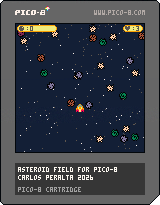
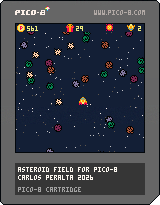
version jugable todas las mecanicas

diff --git a/pico8/index.js b/pico8/index.js
@@ -2,9 +2,9 @@ var _cartname=[`asteroidfield.p8`];
 var _cdpos=0; var iii=0; var ciii=0;
 var _cartdat=[
 0,0,0,0,0,144,9,0,0,238,238,0,0,238,224,0,0,238,238,0,0,238,238,0,0,14,224,0,0,0,0,0,0,0,0,0,0,0,0,0,0,0,0,0,0,0,0,0,0,0,0,0,0,0,0,0,0,0,0,0,0,0,0,0,0,0,0,0,0,201,156,0,0,222,222,14,224,51,62,14,224,68,78,14,224,34,46,14,238,239,254,14,0,0,0,0,0,0,0,0,0,0,0,0,0,0,0,0,0,0,0,0,0,0,0,0,0,0,0,0,0,0,0,0,0,0,0,0,0,7,112,0,144,156,201,9,238,222,221,237,62,51,227,227,78,78,78,228,46,46,34,226,224,255,239,0,0,0,0,0,0,0,0,0,0,0,0,0,0,0,0,0,0,0,0,0,0,0,0,0,0,0,0,0,0,0,0,0,0,0,0,0,0,112,7,0,144,154,169,9,222,221,237,237,62,227,227,227,78,228,228,228,46,34,226,226,254,239,255,14,0,0,0,0,0,0,0,0,0,0,0,0,0,0,0,0,0,0,0,0,0,0,0,0,0,0,0,0,0,0,0,0,0,0,0,0,
-0,112,7,0,153,154,169,153,238,221,221,14,224,227,62,238,238,68,68,238,238,34,34,226,224,255,255,239,0,0,0,0,0,0,0,0,0,0,0,0,0,0,0,0,0,0,0,0,0,0,0,0,0,0,0,0,0,0,0,0,0,0,0,0,0,7,112,0,137,169,154,152,238,237,221,238,62,62,51,14,78,228,228,14,46,226,34,226,254,254,254,14,0,0,0,0,0,0,0,0,0,0,0,0,0,0,0,0,0,0,0,0,0,0,0,0,0,0,0,0,0,0,0,0,0,0,0,0,0,0,0,0,136,168,138,136,0,222,237,14,224,227,238,14,224,68,78,228,224,34,226,14,224,238,239,224,0,0,0,0,0,0,0,0,0,0,0,0,0,0,0,0,0,0,0,0,0,0,0,0,0,0,0,0,0,0,0,0,0,0,0,0,0,0,0,0,8,168,138,128,0,224,14,0,0,14,224,0,0,238,224,14,0,238,238,0,14,0,14,0,0,0,0,0,0,0,0,0,0,0,0,0,0,0,0,0,0,0,0,0,0,0,0,0,0,0,0,0,0,0,0,0,0,0,0,0,
-0,0,0,0,0,0,0,0,0,0,0,0,0,0,0,0,0,0,0,0,0,0,0,0,0,0,0,0,0,0,0,0,0,0,0,0,0,0,0,0,0,0,0,0,0,0,0,0,0,0,0,0,0,0,0,0,0,0,0,0,0,0,0,0,0,0,0,0,0,0,0,0,0,0,0,0,0,0,0,0,0,0,0,0,0,0,0,0,0,0,0,0,0,0,0,0,0,0,0,0,0,0,0,0,0,0,0,0,0,0,0,0,0,0,0,0,0,0,0,0,0,0,0,0,0,0,0,0,0,0,0,0,0,0,0,0,0,0,0,0,0,0,0,0,0,0,0,0,0,0,0,0,0,0,0,0,0,0,0,0,0,0,0,0,0,0,0,0,0,0,0,0,0,0,0,0,0,0,0,0,0,0,0,0,0,0,0,0,0,0,0,0,0,0,0,0,0,0,0,0,0,0,0,0,0,0,0,0,0,0,0,0,0,0,0,0,0,0,0,0,0,0,0,0,0,0,0,0,0,0,0,0,0,0,0,0,0,0,0,0,0,0,0,0,0,0,0,0,0,0,0,0,0,0,0,0,
-0,0,0,0,0,0,0,0,0,0,0,0,0,0,0,0,0,0,0,0,0,0,0,0,0,0,0,0,0,0,0,0,0,0,0,0,0,0,0,0,0,0,0,0,0,0,0,0,0,0,0,0,0,0,0,0,0,0,0,0,0,0,0,0,0,0,0,0,0,0,0,0,0,0,0,0,0,0,0,0,0,0,0,0,0,0,0,0,0,0,0,0,0,0,0,0,0,0,0,0,0,0,0,0,0,0,0,0,0,0,0,0,0,0,0,0,0,0,0,0,0,0,0,0,0,0,0,0,0,0,0,0,0,0,0,0,0,0,0,0,0,0,0,0,0,0,0,0,0,0,0,0,0,0,0,0,0,0,0,0,0,0,0,0,0,0,0,0,0,0,0,0,0,0,0,0,0,0,0,0,0,0,0,0,0,0,0,0,0,0,0,0,0,0,0,0,0,0,0,0,0,0,0,0,0,0,0,0,0,0,0,0,0,0,0,0,0,0,0,0,0,0,0,0,0,0,0,0,0,0,0,0,0,0,0,0,0,0,0,0,0,0,0,0,0,0,0,0,0,0,0,0,0,0,0,0,
+0,112,7,0,153,154,169,153,238,221,221,14,224,227,62,238,238,68,68,238,238,34,34,226,224,255,255,239,0,0,0,0,0,0,0,0,0,0,0,0,0,0,0,0,0,0,0,0,0,0,0,0,0,0,0,0,0,0,0,0,0,0,0,0,0,7,112,0,137,169,154,152,238,237,221,238,62,62,51,14,78,228,228,14,46,226,34,226,254,254,254,14,0,0,0,0,0,0,0,0,0,0,0,0,0,0,0,0,0,0,0,0,0,0,0,0,0,0,0,0,0,0,0,0,0,0,0,0,0,0,0,0,136,168,138,136,0,222,237,14,224,227,238,14,224,68,78,228,224,34,226,14,224,238,239,224,0,0,0,0,0,0,0,0,0,0,0,0,0,0,0,0,0,0,0,0,0,0,0,0,0,0,0,0,0,0,0,0,0,0,0,0,0,0,0,0,8,8,128,128,0,224,14,0,0,14,224,0,0,238,224,14,0,238,238,0,14,0,14,0,0,0,0,0,0,0,0,0,0,0,0,0,0,0,0,0,0,0,0,0,0,0,0,0,0,0,0,0,0,0,0,0,0,0,0,0,
+0,153,153,0,0,153,153,0,0,0,0,0,8,136,8,8,0,0,0,0,0,0,0,0,0,0,0,0,0,0,0,0,0,0,0,0,0,0,0,0,0,0,0,0,0,0,0,0,0,0,0,0,0,0,0,0,0,0,0,0,0,0,0,0,144,170,170,9,144,144,9,9,0,144,9,0,128,153,137,0,0,0,0,0,0,0,0,0,0,0,0,0,0,0,0,0,0,0,0,0,0,0,0,0,0,0,0,0,0,0,0,0,0,0,0,0,0,0,0,0,0,0,0,0,0,0,0,0,169,138,168,154,136,153,153,136,0,201,156,0,152,154,154,8,0,0,0,0,0,0,0,0,0,0,0,0,0,0,0,0,0,0,0,0,0,0,0,0,0,0,0,0,0,0,0,0,0,0,0,0,0,0,0,0,0,0,0,0,0,0,0,0,169,138,138,154,152,152,137,137,144,156,201,9,152,169,153,8,85,80,5,85,0,0,0,0,0,0,0,0,0,0,0,0,0,0,0,0,0,0,0,0,0,0,0,0,0,0,0,0,0,0,0,0,0,0,0,0,0,0,0,0,0,0,0,0,
+169,138,168,154,128,152,137,8,144,154,169,9,152,154,154,8,0,0,0,0,0,0,0,0,0,0,0,0,0,0,0,0,0,0,0,0,0,0,0,0,0,0,0,0,0,0,0,0,0,0,0,0,0,0,0,0,0,0,0,0,0,0,0,0,169,138,170,154,128,152,137,8,153,154,169,153,128,153,137,0,0,0,0,0,0,0,0,0,0,0,0,0,0,0,0,0,0,0,0,0,0,0,0,0,0,0,0,0,0,0,0,0,0,0,0,0,0,0,0,0,0,0,0,0,0,0,0,0,144,170,170,9,128,152,137,8,9,169,154,144,8,136,8,8,0,0,0,0,0,0,0,0,0,0,0,0,0,0,0,0,0,0,0,0,0,0,0,0,0,0,0,0,0,0,0,0,0,0,0,0,0,0,0,0,0,0,0,0,0,0,0,0,0,153,153,0,128,152,137,8,0,160,10,0,0,0,0,0,0,0,0,0,0,0,0,0,0,0,0,0,0,0,0,0,0,0,0,0,0,0,0,0,0,0,0,0,0,0,0,0,0,0,0,0,0,0,0,0,0,0,0,0,0,0,0,0,
 0,0,0,0,0,0,0,0,0,0,0,0,0,0,0,0,0,0,0,0,0,0,0,0,0,0,0,0,0,0,0,0,0,0,0,0,0,0,0,0,0,0,0,0,0,0,0,0,0,0,0,0,0,0,0,0,0,0,0,0,0,0,0,0,0,0,0,0,0,0,0,0,0,0,0,0,0,0,0,0,0,0,0,0,0,0,0,0,0,0,0,0,0,0,0,0,0,0,0,0,0,0,0,0,0,0,0,0,0,0,0,0,0,0,0,0,0,0,0,0,0,0,0,0,0,0,0,0,0,0,0,0,0,0,0,0,0,0,0,0,0,0,0,0,0,0,0,0,0,0,0,0,0,0,0,0,0,0,0,0,0,0,0,0,0,0,0,0,0,0,0,0,0,0,0,0,0,0,0,0,0,0,0,0,0,0,0,0,0,0,0,0,0,0,0,0,0,0,0,0,0,0,0,0,0,0,0,0,0,0,0,0,0,0,0,0,0,0,0,0,0,0,0,0,0,0,0,0,0,0,0,0,0,0,0,0,0,0,0,0,0,0,0,0,0,0,0,0,0,0,0,0,0,0,0,0,
 0,0,0,0,0,0,0,0,0,0,0,0,0,0,0,0,0,0,0,0,0,0,0,0,0,0,0,0,0,0,0,0,0,0,0,0,0,0,0,0,0,0,0,0,0,0,0,0,0,0,0,0,0,0,0,0,0,0,0,0,0,0,0,0,0,0,0,0,0,0,0,0,0,0,0,0,0,0,0,0,0,0,0,0,0,0,0,0,0,0,0,0,0,0,0,0,0,0,0,0,0,0,0,0,0,0,0,0,0,0,0,0,0,0,0,0,0,0,0,0,0,0,0,0,0,0,0,0,0,0,0,0,0,0,0,0,0,0,0,0,0,0,0,0,0,0,0,0,0,0,0,0,0,0,0,0,0,0,0,0,0,0,0,0,0,0,0,0,0,0,0,0,0,0,0,0,0,0,0,0,0,0,0,0,0,0,0,0,0,0,0,0,0,0,0,0,0,0,0,0,0,0,0,0,0,0,0,0,0,0,0,0,0,0,0,0,0,0,0,0,0,0,0,0,0,0,0,0,0,0,0,0,0,0,0,0,0,0,0,0,0,0,0,0,0,0,0,0,0,0,0,0,0,0,0,0,
 0,0,0,0,0,0,0,0,0,0,0,0,0,0,0,0,0,0,0,0,0,0,0,0,0,0,0,0,0,0,0,0,0,0,0,0,0,0,0,0,0,0,0,0,0,0,0,0,0,0,0,0,0,0,0,0,0,0,0,0,0,0,0,0,0,0,0,0,0,0,0,0,0,0,0,0,0,0,0,0,0,0,0,0,0,0,0,0,0,0,0,0,0,0,0,0,0,0,0,0,0,0,0,0,0,0,0,0,0,0,0,0,0,0,0,0,0,0,0,0,0,0,0,0,0,0,0,0,0,0,0,0,0,0,0,0,0,0,0,0,0,0,0,0,0,0,0,0,0,0,0,0,0,0,0,0,0,0,0,0,0,0,0,0,0,0,0,0,0,0,0,0,0,0,0,0,0,0,0,0,0,0,0,0,0,0,0,0,0,0,0,0,0,0,0,0,0,0,0,0,0,0,0,0,0,0,0,0,0,0,0,0,0,0,0,0,0,0,0,0,0,0,0,0,0,0,0,0,0,0,0,0,0,0,0,0,0,0,0,0,0,0,0,0,0,0,0,0,0,0,0,0,0,0,0,0,
@@ -67,18 +67,18 @@ var _cartdat=[
 0,16,0,0,0,0,0,0,0,0,0,0,0,0,0,0,0,0,0,0,0,0,0,0,0,0,0,0,0,0,0,0,0,0,0,0,0,0,0,0,0,0,0,0,0,0,0,0,0,0,0,0,0,0,0,0,0,0,0,0,0,0,0,0,0,0,0,0,0,16,0,0,0,0,0,0,0,0,0,0,0,0,0,0,0,0,0,0,0,0,0,0,0,0,0,0,0,0,0,0,0,0,0,0,0,0,0,0,0,0,0,0,0,0,0,0,0,0,0,0,0,0,0,0,0,0,0,0,0,0,0,0,0,0,0,0,0,16,0,0,0,0,0,0,0,0,0,0,0,0,0,0,0,0,0,0,0,0,0,0,0,0,0,0,0,0,0,0,0,0,0,0,0,0,0,0,0,0,0,0,0,0,0,0,0,0,0,0,0,0,0,0,0,0,0,0,0,0,0,0,0,0,0,0,0,16,0,0,0,0,0,0,0,0,0,0,0,0,0,0,0,0,0,0,0,0,0,0,0,0,0,0,0,0,0,0,0,0,0,0,0,0,0,0,0,0,0,0,0,0,0,0,0,0,0,0,
 0,0,0,0,0,0,0,0,0,0,0,0,0,0,0,0,0,16,0,0,0,0,0,0,0,0,0,0,0,0,0,0,0,0,0,0,0,0,0,0,0,0,0,0,0,0,0,0,0,0,0,0,0,0,0,0,0,0,0,0,0,0,0,0,0,0,0,0,0,0,0,0,0,0,0,0,0,0,0,0,0,0,0,0,0,16,0,0,0,0,0,0,0,0,0,0,0,0,0,0,0,0,0,0,0,0,0,0,0,0,0,0,0,0,0,0,0,0,0,0,0,0,0,0,0,0,0,0,0,0,0,0,0,0,0,0,0,0,0,0,0,0,0,0,0,0,0,0,0,0,0,0,0,16,0,0,0,0,0,0,0,0,0,0,0,0,0,0,0,0,0,0,0,0,0,0,0,0,0,0,0,0,0,0,0,0,0,0,0,0,0,0,0,0,0,0,0,0,0,0,0,0,0,0,0,0,0,0,0,0,0,0,0,0,0,0,0,0,0,0,0,16,0,0,0,0,0,0,0,0,0,0,0,0,0,0,0,0,0,0,0,0,0,0,0,0,0,0,0,0,0,0,0,0,0,0,
 0,0,0,0,0,0,0,0,0,0,0,0,0,0,0,0,0,0,0,0,0,0,0,0,0,0,0,0,0,0,0,0,0,16,0,0,0,0,0,0,0,0,0,0,0,0,0,0,0,0,0,0,0,0,0,0,0,0,0,0,0,0,0,0,0,0,0,0,0,0,0,0,0,0,0,0,0,0,0,0,0,0,0,0,0,0,0,0,0,0,0,0,0,0,0,0,0,0,0,0,0,16,0,0,0,0,0,0,0,0,0,0,0,0,0,0,0,0,0,0,0,0,0,0,0,0,0,0,0,0,0,0,0,0,0,0,0,0,0,0,0,0,0,0,0,0,0,0,0,0,0,0,0,0,0,0,0,0,0,0,0,0,0,0,0,0,0,0,0,16,0,0,0,0,0,0,0,0,0,0,0,0,0,0,0,0,0,0,0,0,0,0,0,0,0,0,0,0,0,0,0,0,0,0,0,0,0,0,0,0,0,0,0,0,0,0,0,0,0,0,0,0,0,0,0,0,0,0,0,0,0,0,0,0,0,0,0,16,0,0,0,0,0,0,0,0,0,0,0,0,0,0,0,0,0,0,
-0,0,0,0,0,0,0,0,0,0,0,0,0,0,0,0,0,0,0,0,0,0,0,0,0,0,0,0,0,0,0,0,0,0,0,0,0,0,0,0,0,0,0,0,0,0,0,0,0,16,0,0,0,0,0,0,0,0,0,0,0,0,0,0,0,0,0,0,0,0,0,0,0,0,0,0,0,0,0,0,0,0,0,0,0,0,0,0,0,0,0,0,0,0,0,0,0,0,0,0,0,0,0,0,0,0,0,0,0,0,0,0,0,0,0,0,0,16,0,0,18,11,4,11,1,11,2,11,4,11,13,11,0,0,0,0,0,0,0,0,0,0,0,0,0,0,0,0,0,0,0,0,0,0,0,0,0,0,0,0,0,0,0,0,0,0,0,0,0,0,0,0,0,0,0,0,0,0,0,0,0,0,0,0,120,2,0,0,167,10,176,10,182,10,185,10,176,10,164,10,0,0,0,0,0,0,0,0,0,0,0,0,0,0,0,0,0,0,0,0,0,0,0,0,0,0,0,0,0,0,0,0,0,0,0,0,0,0,0,0,0,0,0,0,0,0,0,0,0,0,0,0,199,2,0,0,
-0,112,120,97,23,90,9,140,235,193,226,197,111,240,8,119,63,194,19,92,127,122,120,123,147,61,128,11,178,46,123,131,236,250,170,62,106,201,28,81,95,166,93,223,182,113,214,117,125,146,221,115,78,113,83,237,155,203,12,254,79,55,228,224,99,79,44,194,155,138,131,15,189,243,226,228,206,115,211,36,235,238,189,179,105,11,233,240,255,61,238,184,108,100,39,24,58,127,41,138,170,173,65,113,130,39,168,162,205,50,25,28,76,195,178,104,222,160,139,116,73,230,194,32,171,158,225,25,202,70,152,224,9,170,166,136,235,34,124,137,98,180,26,200,23,236,115,229,136,94,64,221,181,237,68,167,29,50,59,208,117,42,6,7,142,172,132,97,125,161,174,201,153,249,196,66,157,117,113,98,143,145,236,21,178,37,169,144,213,37,29,129,1,251,44,215,210,227,154,90,232,19,223,29,234,139,60,47,54,2,33,2,231,212,51,249,196,208,80,231,173,113,221,130,141,112,65,82,112,165,235,139,165,5,171,149,47,145,53,59,107,114,42,151,4,193,80,167,75,16,150,89,211,36,73,171,
+0,0,0,0,0,0,0,0,0,0,0,0,0,0,0,0,0,0,0,0,0,0,0,0,0,0,0,0,0,0,0,0,0,0,0,0,0,0,0,0,0,0,0,0,0,0,0,0,0,16,0,0,10,10,8,10,5,10,3,10,2,10,2,10,3,10,5,10,9,10,12,10,17,10,25,10,36,10,47,10,58,10,0,0,0,0,0,0,0,0,0,0,0,0,0,0,0,0,0,0,0,0,0,0,0,0,0,0,0,0,0,0,0,0,0,0,49,2,0,0,18,11,4,11,1,11,2,11,4,11,13,11,0,0,0,0,0,0,0,0,0,0,0,0,0,0,0,0,0,0,0,0,0,0,0,0,0,0,0,0,0,0,0,0,0,0,0,0,0,0,0,0,0,0,0,0,0,0,0,0,0,0,0,0,120,2,0,0,149,3,163,5,184,7,184,9,184,11,144,11,144,11,183,11,183,11,183,11,144,11,144,11,148,11,152,11,159,9,165,7,168,5,168,3,192,1,0,0,0,0,0,0,0,0,0,0,0,0,0,0,0,0,0,0,0,0,0,0,0,0,0,0,209,2,0,0,
+0,112,120,97,25,240,10,133,235,193,226,197,111,240,8,119,63,194,19,92,127,122,120,123,147,61,128,11,178,46,123,131,236,250,170,62,106,201,28,81,95,166,93,223,182,113,214,117,125,146,221,115,78,113,83,237,155,203,12,254,79,55,228,224,99,79,44,194,155,138,131,15,189,243,226,228,206,115,211,36,235,238,189,179,105,11,233,240,255,61,238,184,108,100,39,24,58,127,41,138,170,173,65,113,130,39,168,162,205,50,25,28,76,195,178,104,222,160,139,116,73,230,194,32,171,158,225,25,202,70,152,224,9,170,166,136,235,34,124,137,98,180,26,200,23,236,115,229,136,94,64,221,181,237,68,167,29,50,59,208,117,42,6,7,142,172,132,97,125,161,174,201,153,249,196,66,157,117,113,98,143,145,236,21,178,37,169,144,213,37,29,129,1,251,44,215,210,227,154,90,232,19,223,29,234,139,60,47,54,2,33,2,231,212,51,249,196,208,80,231,173,113,221,130,141,112,65,82,112,165,235,139,165,5,171,149,47,145,53,59,107,114,42,151,4,193,80,167,75,16,150,89,211,36,73,171,
 80,146,236,9,170,255,215,250,190,65,155,60,92,44,163,149,168,74,163,161,62,216,105,140,217,30,48,210,46,141,136,146,60,66,31,21,205,228,100,57,19,230,43,54,9,146,177,166,156,232,15,40,222,162,104,162,188,58,161,58,85,66,96,45,26,30,27,204,94,99,98,66,251,97,102,99,105,43,152,140,138,100,107,109,108,103,76,40,100,96,99,161,56,214,220,83,67,89,219,219,198,20,217,116,49,93,44,91,67,184,32,92,80,100,48,86,20,57,36,114,192,174,53,22,250,120,195,86,117,186,144,167,59,229,70,58,144,217,66,178,164,215,59,72,19,111,108,233,22,4,225,11,21,117,93,249,38,142,86,204,176,57,55,154,76,52,141,64,193,144,53,146,240,49,194,133,102,183,72,214,214,244,10,54,148,155,148,67,146,196,25,73,63,90,204,149,139,226,98,26,7,229,76,231,26,89,148,217,89,173,113,183,85,95,54,2,233,25,219,105,156,33,145,226,52,85,146,120,202,47,43,99,189,76,185,116,74,242,167,136,227,120,66,130,124,94,232,253,60,229,42,185,5,89,114,57,
-43,60,122,35,81,46,199,92,56,208,8,162,4,91,11,170,165,114,35,229,120,223,53,239,52,19,232,140,202,164,115,206,49,226,230,238,229,76,130,129,98,65,87,65,176,252,104,4,75,103,110,222,19,69,152,238,231,4,81,252,160,234,179,33,153,49,81,204,5,189,226,71,30,141,116,182,200,187,86,35,208,11,242,7,197,254,188,110,137,104,92,33,20,33,76,28,101,3,194,65,75,101,151,250,73,88,66,74,165,149,121,113,148,46,145,139,180,205,6,135,162,185,177,193,42,73,147,199,16,14,155,145,57,199,198,224,138,168,196,254,158,194,217,226,252,192,242,236,134,149,68,5,85,163,86,92,38,48,172,151,34,28,118,246,204,94,36,213,62,93,24,69,36,27,44,45,173,21,123,146,21,71,11,40,202,172,88,242,226,48,220,214,117,42,53,61,86,151,231,38,68,66,181,203,36,83,116,234,49,81,201,172,255,89,208,133,149,112,151,116,187,101,103,164,231,91,15,14,78,107,243,199,46,234,147,46,114,198,216,104,58,56,44,217,36,70,255,171,11,146,197,102,107,79,200,33,
-14,182,198,70,146,11,162,100,93,66,35,74,118,146,13,251,90,223,87,59,71,203,99,40,158,57,24,248,194,59,185,53,222,104,110,232,119,164,237,1,173,46,157,228,62,246,69,240,33,60,158,58,202,229,6,250,66,114,32,113,128,60,179,54,63,86,229,174,132,237,33,62,250,60,202,94,10,6,163,75,123,23,175,45,12,172,7,42,249,72,227,27,146,170,142,154,70,200,76,208,89,184,84,143,70,133,75,55,252,88,210,13,155,16,162,175,76,254,127,201,226,255,146,97,83,181,149,92,199,70,84,20,221,130,224,250,101,252,201,173,235,101,98,145,19,129,179,176,204,138,34,84,105,86,20,203,100,20,146,70,83,252,180,62,69,220,245,52,170,34,50,90,214,73,27,245,83,123,202,91,9,143,24,105,213,28,85,34,172,42,106,255,63,250,242,255,255,191,216,22,36,237,228,164,58,200,53,38,80,47,96,50,80,154,175,66,246,82,176,19,154,96,113,127,118,167,104,196,41,58,71,172,206,71,23,236,118,35,97,150,133,129,132,62,236,116,129,247,4,122,234,32,35,215,192,230,
-134,253,110,175,44,155,46,154,198,213,144,49,111,137,8,246,186,2,55,244,194,34,89,56,156,56,97,162,156,212,11,144,161,24,94,31,233,186,67,180,63,84,195,92,176,101,134,181,134,129,194,119,202,96,50,100,221,41,235,31,23,68,131,246,71,46,29,178,234,164,202,169,12,29,208,187,150,193,3,112,60,76,94,116,63,183,213,70,109,123,42,93,180,241,186,148,193,225,245,186,34,137,206,9,60,4,68,18,201,158,24,28,146,21,145,70,205,146,100,109,77,136,75,111,192,76,171,70,232,103,66,43,213,62,92,208,180,212,20,4,196,16,145,68,254,9,116,148,170,248,167,180,224,143,228,142,169,44,216,218,168,53,51,230,170,74,246,151,98,67,158,103,33,144,26,44,71,246,157,182,148,11,132,235,18,129,112,140,9,132,159,175,164,32,186,160,32,142,64,98,92,79,35,16,14,5,225,66,155,240,150,161,96,64,238,117,109,67,189,165,9,10,239,104,18,198,249,104,149,111,153,73,131,77,24,189,10,108,11,138,193,173,98,248,159,64,49,252,208,177,217,189,70,202,150,167,
-133,165,235,79,247,138,215,105,215,255,177,155,134,212,106,219,117,156,38,126,72,223,73,13,11,220,175,80,184,135,192,253,15,113,170,32,211,186,149,24,209,187,199,136,130,70,168,117,111,77,133,66,39,188,131,81,20,233,91,166,59,66,229,243,67,191,228,173,29,28,20,241,166,85,92,151,185,254,212,184,21,80,149,184,255,255,84,26,247,199,216,194,164,133,108,41,65,98,93,175,72,224,143,6,197,138,145,177,48,83,209,177,134,2,254,31,233,249,79,250,157,145,234,132,154,8,100,4,148,3,197,72,26,173,77,230,195,187,18,240,177,151,6,116,187,210,181,197,132,246,107,231,123,224,186,200,206,50,180,9,245,94,152,216,8,113,77,172,94,9,90,153,240,68,154,242,7,84,5,234,190,74,138,71,162,28,64,38,210,178,158,72,53,160,82,20,226,189,192,232,198,104,110,136,84,195,68,17,113,32,113,137,39,204,113,76,165,69,209,101,65,177,33,86,81,74,218,3,152,196,31,177,143,195,5,48,224,89,124,237,234,206,184,103,128,76,100,217,15,94,88,84,66,63,68,2,
-5,120,244,198,240,77,80,94,28,18,30,203,204,24,62,41,67,149,148,114,108,130,14,199,244,246,197,159,226,12,98,6,21,162,202,32,205,229,181,72,254,198,116,92,18,98,213,40,151,228,110,154,92,34,28,129,68,56,151,184,90,252,232,58,182,22,86,244,27,82,24,10,196,133,2,93,49,103,71,206,10,156,31,115,175,204,121,71,157,96,80,163,196,246,104,108,21,216,42,16,12,147,205,184,63,158,216,232,216,105,36,138,186,27,166,46,138,234,162,81,148,16,107,136,139,163,242,173,232,158,76,10,33,91,203,128,115,72,170,32,153,26,27,200,50,168,30,65,215,128,153,174,207,234,194,77,11,145,127,102,138,122,94,141,239,170,148,91,7,186,61,5,129,254,77,118,236,161,248,81,55,89,147,119,40,54,160,8,145,199,11,197,134,45,162,240,166,181,91,14,42,68,67,100,101,166,235,217,153,129,229,244,38,113,17,249,24,67,13,26,82,18,82,242,114,105,105,32,157,237,21,62,20,3,194,241,66,54,228,4,47,148,94,9,90,157,112,172,175,12,201,132,45,72,40,137,
-34,140,43,5,169,181,195,82,85,88,74,132,255,215,238,126,16,120,36,92,86,31,221,144,23,36,157,113,11,70,77,132,150,210,211,221,159,27,35,76,241,202,237,11,71,199,136,70,92,237,82,182,115,192,108,184,90,74,107,109,116,139,237,86,80,76,248,96,229,140,247,216,127,17,10,31,184,233,134,173,2,172,135,131,209,226,150,194,17,187,247,36,85,80,20,155,78,72,202,162,137,206,104,154,49,237,46,253,134,157,133,141,96,4,136,196,15,30,31,153,80,181,118,11,241,143,108,140,5,116,23,254,116,165,45,54,109,255,206,46,62,138,49,6,172,162,168,33,29,202,250,163,242,30,125,185,201,92,66,249,122,222,175,37,227,123,181,14,140,55,10,198,18,99,73,130,122,240,0,241,1,225,9,13,143,102,147,203,72,184,122,72,160,228,0,77,161,51,102,166,84,96,77,85,142,206,107,142,100,99,217,184,82,145,19,182,18,113,143,137,145,187,48,137,32,189,162,218,88,25,51,195,198,176,132,133,121,228,54,198,250,197,28,128,135,149,197,117,129,178,248,185,169,44,220,40,
-11,65,208,64,191,25,39,35,91,234,66,62,82,22,201,148,133,118,148,197,223,85,205,242,51,208,44,78,52,139,166,178,48,17,45,43,214,166,194,82,177,44,20,220,152,234,7,208,44,116,80,246,108,59,213,206,89,19,70,22,145,118,143,134,20,78,6,146,36,65,50,70,192,68,234,239,184,35,144,91,83,229,25,27,232,229,86,54,250,40,105,140,19,76,45,217,14,61,2,150,146,166,236,70,202,173,61,227,56,162,46,250,32,18,103,153,41,245,20,132,36,208,52,252,96,33,98,37,121,208,104,248,6,72,101,100,130,70,195,161,23,180,42,66,47,4,13,175,105,22,244,76,119,234,182,223,43,101,236,63,20,30,223,154,216,88,199,43,164,184,66,60,208,229,201,124,227,24,160,21,136,134,246,60,32,89,81,55,106,106,68,49,30,180,21,236,20,243,63,234,35,183,212,120,93,161,54,88,101,210,89,114,20,243,250,20,61,91,17,175,102,234,205,210,58,235,99,141,167,20,51,74,171,255,63,170,93,142,35,141,162,161,142,102,5,133,112,252,146,166,150,186,7,194,200,47,
-99,161,195,184,60,167,241,127,233,10,136,205,152,136,176,198,5,14,133,187,205,128,101,64,149,80,16,45,215,130,7,218,145,78,204,156,80,246,173,11,96,89,32,147,101,10,91,163,232,247,50,20,33,237,144,49,45,57,100,67,70,180,5,149,13,208,169,96,234,134,173,49,213,141,180,60,129,187,8,149,194,177,136,98,228,165,38,242,135,238,201,141,147,34,24,56,110,157,90,21,251,131,51,137,230,154,213,153,25,130,40,143,110,185,212,201,101,40,122,36,20,10,34,31,49,43,65,140,104,20,205,26,195,105,16,35,254,75,233,3,0,0,0,0,0,0,0,0,0,0,0,0,0,0,0,0,0,0,0,0,0,0,0,0,0,0,0,0,0,0,0,0,0,0,0,0,0,0,0,0,0,0,0,0,0,0,0,0,0,0,0,0,0,0,0,0,0,0,0,0,0,0,0,0,0,0,0,0,0,0,0,0,0,0,0,0,0,0,0,0,0,0,0,0,0,0,0,0,0,0,0,0,0,0,0,0,0,0,0,0,0,0,0,0,0,0,0,0,0,0,0,0,0,0,0,0,
-0,0,0,0,0,0,0,0,0,0,0,0,0,0,0,0,0,0,0,0,0,0,0,0,0,0,0,0,0,0,0,0,0,0,0,0,0,0,0,0,0,0,0,0,0,0,0,0,0,0,0,0,0,0,0,0,0,0,0,0,0,0,0,0,0,0,0,0,0,0,0,0,0,0,0,0,0,0,0,0,0,0,0,0,0,0,0,0,0,0,0,0,0,0,0,0,0,0,0,0,0,0,0,0,0,0,0,0,0,0,0,0,0,0,0,0,0,0,0,0,0,0,0,0,0,0,0,0,0,0,0,0,0,0,0,0,0,0,0,0,0,0,0,0,0,0,0,0,0,0,0,0,0,0,0,0,0,0,0,0,0,0,0,0,0,0,0,0,0,0,0,0,0,0,0,0,0,0,0,0,0,0,0,0,0,0,0,0,0,0,0,0,0,0,0,0,0,0,0,0,0,0,0,0,0,0,0,0,0,0,0,0,0,0,0,0,0,0,0,0,0,0,0,0,0,0,0,0,0,0,0,0,0,0,0,0,0,0,0,0,0,0,0,0,0,0,0,0,0,0,0,0,0,0,0,0,
+43,60,122,35,81,46,199,92,56,208,8,162,4,91,11,170,165,114,35,229,120,223,53,239,52,19,232,140,202,164,115,206,49,226,230,238,229,76,130,129,98,65,87,65,176,252,104,4,75,103,110,222,19,69,152,238,231,4,81,252,160,234,179,33,153,49,81,204,5,189,226,71,30,141,116,182,200,187,86,35,208,11,242,7,197,254,188,110,137,104,92,33,20,33,76,28,101,3,194,65,75,101,151,250,73,88,66,74,165,149,121,113,148,46,145,139,180,205,6,135,162,185,177,193,42,73,147,199,16,14,155,145,57,199,198,224,138,168,196,254,158,194,217,226,252,192,242,236,134,149,68,5,85,163,86,92,38,48,172,151,34,28,118,246,204,94,36,213,62,93,24,69,36,27,44,45,173,21,123,146,21,71,11,40,202,172,88,242,226,48,220,214,117,42,53,61,86,151,231,38,68,66,85,203,161,245,163,214,164,204,38,204,236,43,197,105,165,242,255,80,91,255,33,162,188,167,152,254,232,181,136,228,99,35,211,120,255,51,33,74,235,12,249,152,87,74,212,165,148,81,15,16,89,175,12,170,
+178,252,33,32,169,64,243,44,18,98,233,196,180,254,153,232,121,149,124,36,196,255,231,121,164,210,37,173,52,165,177,122,247,68,43,64,254,63,7,40,224,99,113,120,73,59,196,70,202,129,150,88,182,92,32,38,254,75,21,199,36,106,255,45,150,55,14,192,161,240,216,69,240,211,69,206,200,182,37,54,84,178,244,255,127,69,193,242,242,192,232,174,118,70,30,140,174,238,37,87,68,201,9,133,152,68,48,89,173,217,215,250,62,220,57,248,20,48,22,15,30,205,216,225,157,222,58,161,105,155,186,111,138,58,185,162,150,203,163,156,112,92,161,59,14,225,241,244,209,128,220,64,88,72,14,36,14,80,196,198,161,112,8,181,137,236,67,124,244,125,96,42,72,193,96,115,104,237,234,173,126,96,48,16,27,71,217,30,146,84,113,212,52,66,102,26,218,194,165,8,16,162,74,164,27,126,44,233,134,45,104,255,151,76,194,255,75,27,255,199,160,12,163,44,238,222,9,3,83,242,94,219,218,76,98,248,255,163,208,14,85,38,11,180,30,42,119,86,98,141,246,152,255,145,105,215,
+224,17,101,16,78,134,155,147,81,84,143,102,43,6,144,105,217,136,71,122,161,199,46,206,55,154,178,104,162,164,217,85,220,143,254,78,182,192,118,33,43,154,239,88,172,182,167,18,244,15,88,139,181,57,102,55,4,31,182,219,133,177,36,145,15,18,19,199,33,98,98,220,17,92,203,136,52,185,142,184,198,107,123,41,136,73,70,212,153,130,160,210,240,120,211,172,172,235,237,233,140,237,40,150,138,17,143,75,4,193,126,144,20,89,154,170,26,170,102,143,4,179,149,9,150,246,86,102,138,70,176,98,205,17,147,91,209,220,82,183,16,102,89,24,200,234,195,78,103,120,79,93,167,14,50,128,16,108,14,17,73,220,91,163,6,145,49,111,137,8,230,186,2,135,228,194,34,138,9,161,19,6,186,97,189,0,105,138,217,11,38,246,187,83,228,63,84,195,92,48,105,134,177,6,69,195,119,204,92,50,98,221,37,235,31,87,68,107,246,7,66,4,205,57,41,114,42,202,8,228,174,69,33,1,42,18,147,23,93,174,109,181,21,219,158,234,23,105,123,130,148,193,17,241,5,138,
+36,58,39,64,17,16,73,36,123,98,109,72,86,68,26,53,147,142,24,19,231,210,27,48,211,184,17,242,145,206,74,177,15,7,116,46,53,5,57,61,68,36,145,4,3,29,165,42,254,41,45,248,35,217,29,202,130,169,137,90,71,99,173,170,124,3,19,162,187,3,129,212,96,185,49,238,180,181,92,32,92,187,2,225,216,18,8,63,199,21,68,23,20,196,17,72,140,107,90,32,28,10,194,133,54,225,41,67,193,128,220,235,216,134,122,75,19,20,222,209,36,140,243,205,42,159,50,147,6,155,48,122,21,216,22,20,131,91,197,240,63,129,98,248,161,99,115,200,45,82,182,88,51,44,93,127,186,87,188,78,187,254,143,221,52,164,70,219,174,195,101,241,67,250,78,106,88,224,126,133,194,61,4,238,127,136,83,5,153,214,173,196,136,222,61,70,20,52,66,173,123,107,42,20,58,225,221,139,162,72,223,50,221,17,42,159,31,250,37,111,237,80,185,136,55,173,226,186,204,245,167,198,173,128,170,196,253,255,167,210,184,63,198,22,22,45,100,75,9,18,235,122,69,2,127,80,
+46,86,140,140,133,153,138,142,53,20,240,255,72,207,127,210,239,140,84,39,212,68,32,35,160,28,40,70,210,104,109,49,159,158,149,128,143,189,52,160,219,149,174,45,38,180,95,59,223,131,154,70,118,134,217,89,168,247,194,196,70,72,205,98,245,74,208,202,132,39,210,148,63,160,42,80,247,85,82,60,18,229,224,98,145,22,185,69,170,1,149,162,144,178,6,166,55,70,115,67,164,26,38,138,136,3,137,75,60,97,142,91,42,45,138,46,11,138,13,177,138,82,210,30,232,40,254,136,125,156,45,128,193,48,227,107,87,119,198,61,51,186,136,151,97,94,8,148,208,15,145,64,1,30,189,49,138,22,148,23,135,132,199,48,51,134,79,202,80,37,165,28,155,128,244,49,189,125,97,192,56,131,24,5,134,168,50,72,115,121,45,146,191,49,29,151,132,88,53,202,37,185,155,38,151,8,71,32,17,206,37,188,25,63,186,14,113,134,21,253,134,20,134,2,113,161,64,87,204,217,145,179,2,231,199,220,43,115,222,81,39,24,212,40,177,61,26,91,5,182,10,4,195,100,51,174,
+143,39,54,58,132,29,137,162,238,128,169,123,162,186,104,20,37,196,26,226,226,164,124,43,58,39,147,66,200,214,50,238,31,146,42,72,166,198,6,178,140,109,72,208,53,96,166,235,179,186,112,211,66,228,159,153,162,94,87,227,187,41,197,7,130,110,79,65,160,127,145,29,123,40,126,212,77,214,228,29,17,15,40,66,228,241,66,177,97,139,40,188,99,237,146,107,10,209,16,89,153,233,122,118,102,96,57,189,72,92,68,62,198,80,131,134,148,132,148,188,92,130,44,129,217,90,225,163,100,110,33,217,144,89,47,84,94,9,66,157,112,108,111,204,200,132,101,18,74,162,8,211,74,65,106,237,176,84,21,143,75,132,255,215,238,124,16,120,36,92,86,31,29,144,23,4,206,113,111,53,188,52,172,167,205,35,131,212,41,30,185,125,81,1,25,209,136,171,91,89,220,216,95,221,95,93,148,214,218,232,218,189,193,160,88,240,193,202,25,175,113,198,123,192,16,193,73,55,108,21,124,67,28,140,22,183,20,142,216,189,38,169,130,162,216,116,66,82,22,77,116,70,211,44,106,119,
+233,55,236,44,108,4,35,64,36,126,96,17,201,132,170,181,91,192,139,100,99,44,160,187,240,167,43,109,177,105,251,119,120,239,73,140,49,96,21,210,20,147,14,66,46,82,121,143,190,220,100,46,161,124,61,239,215,146,241,189,90,7,198,27,5,99,137,33,61,65,61,120,128,248,128,240,132,134,71,179,137,199,36,120,67,36,80,114,128,166,208,25,51,83,42,176,166,42,71,231,53,71,178,177,108,92,169,200,9,91,137,184,199,196,200,85,180,74,144,94,81,109,172,140,153,97,99,88,194,194,60,114,27,99,253,98,206,33,196,202,226,186,64,89,252,220,84,22,110,148,133,192,104,160,223,140,147,145,45,117,33,31,41,139,100,202,66,59,202,226,239,170,102,249,25,104,22,39,154,69,83,89,152,136,150,21,107,83,97,169,88,22,10,110,76,245,188,43,186,55,40,123,182,157,106,231,204,9,35,139,72,187,71,67,10,39,3,129,158,32,89,3,145,34,245,119,220,17,200,173,169,242,172,13,244,114,43,27,125,148,52,198,9,182,166,108,135,30,1,83,73,83,118,35,229,216,
+160,113,28,81,23,125,16,137,179,204,148,122,10,66,18,104,26,126,32,41,177,146,60,104,52,124,3,114,21,99,1,141,134,67,47,104,85,132,94,8,26,94,211,44,232,153,14,213,109,63,88,202,216,127,120,60,190,57,177,177,14,27,73,169,145,120,160,203,147,249,198,49,64,43,16,45,13,122,64,178,162,110,212,212,136,98,60,104,43,216,41,230,127,240,77,110,169,241,186,66,109,176,202,164,179,228,40,230,245,41,122,196,37,222,202,212,155,165,117,214,199,26,79,41,102,148,86,255,127,84,187,56,77,26,69,67,29,205,10,10,225,248,37,77,45,117,15,11,147,95,198,66,135,113,121,78,227,255,210,21,16,155,49,17,133,148,147,110,199,87,65,254,120,24,127,108,48,21,170,33,136,145,193,209,36,49,59,154,100,179,182,62,182,155,42,48,71,81,56,128,182,138,76,98,14,232,32,227,147,178,88,33,96,21,83,200,108,7,190,100,77,18,102,13,246,143,26,143,201,137,28,17,5,130,161,57,16,19,235,249,10,146,140,55,133,6,25,111,19,154,166,137,76,13,147,227,
+69,213,194,229,126,199,50,104,84,168,253,182,34,123,15,152,40,93,90,59,65,130,192,5,92,48,208,40,80,85,35,70,145,253,69,75,226,190,38,69,98,43,46,185,78,148,144,173,74,196,68,182,20,7,165,29,16,190,96,241,134,201,77,105,132,173,153,19,248,159,80,41,28,195,72,80,94,201,246,135,50,203,205,211,34,28,60,110,161,94,25,255,67,91,197,23,211,237,26,201,150,71,205,92,234,228,50,20,197,20,10,5,161,159,152,149,40,78,148,223,2,140,225,52,138,19,255,135,45,229,147,255,0,0,0,0,0,0,0,0,0,0,0,0,0,0,0,0,0,0,0,0,0,0,0,0,0,0,0,0,0,0,0,0,0,0,0,0,0,0,0,0,0,0,0,0,0,0,0,0,0,0,0,0,0,0,0,0,0,0,0,0,0,0,0,0,0,0,0,0,0,0,0,0,0,0,0,0,0,0,0,0,0,0,0,0,0,0,0,0,0,0,0,0,0,0,0,0,0,0,0,0,0,0,0,0,0,0,0,0,0,0,0,0,0,0,0,0,0,0,0,0,0,0,0,0,
 0,0,0,0,0,0,0,0,0,0,0,0,0,0,0,0,0,0,0,0,0,0,0,0,0,0,0,0,0,0,0,0,0,0,0,0,0,0,0,0,0,0,0,0,0,0,0,0,0,0,0,0,0,0,0,0,0,0,0,0,0,0,0,0,0,0,0,0,0,0,0,0,0,0,0,0,0,0,0,0,0,0,0,0,0,0,0,0,0,0,0,0,0,0,0,0,0,0,0,0,0,0,0,0,0,0,0,0,0,0,0,0,0,0,0,0,0,0,0,0,0,0,0,0,0,0,0,0,0,0,0,0,0,0,0,0,0,0,0,0,0,0,0,0,0,0,0,0,0,0,0,0,0,0,0,0,0,0,0,0,0,0,0,0,0,0,0,0,0,0,0,0,0,0,0,0,0,0,0,0,0,0,0,0,0,0,0,0,0,0,0,0,0,0,0,0,0,0,0,0,0,0,0,0,0,0,0,0,0,0,0,0,0,0,0,0,0,0,0,0,0,0,0,0,0,0,0,0,0,0,0,0,0,0,0,0,0,0,0,0,0,0,0,0,0,0,0,0,0,0,0,0,0,0,0,0,
 0,0,0,0,0,0,0,0,0,0,0,0,0,0,0,0,0,0,0,0,0,0,0,0,0,0,0,0,0,0,0,0,0,0,0,0,0,0,0,0,0,0,0,0,0,0,0,0,0,0,0,0,0,0,0,0,0,0,0,0,0,0,0,0,0,0,0,0,0,0,0,0,0,0,0,0,0,0,0,0,0,0,0,0,0,0,0,0,0,0,0,0,0,0,0,0,0,0,0,0,0,0,0,0,0,0,0,0,0,0,0,0,0,0,0,0,0,0,0,0,0,0,0,0,0,0,0,0,0,0,0,0,0,0,0,0,0,0,0,0,0,0,0,0,0,0,0,0,0,0,0,0,0,0,0,0,0,0,0,0,0,0,0,0,0,0,0,0,0,0,0,0,0,0,0,0,0,0,0,0,0,0,0,0,0,0,0,0,0,0,0,0,0,0,0,0,0,0,0,0,0,0,0,0,0,0,0,0,0,0,0,0,0,0,0,0,0,0,0,0,0,0,0,0,0,0,0,0,0,0,0,0,0,0,0,0,0,0,0,0,0,0,0,0,0,0,0,0,0,0,0,0,0,0,0,0,
 0,0,0,0,0,0,0,0,0,0,0,0,0,0,0,0,0,0,0,0,0,0,0,0,0,0,0,0,0,0,0,0,0,0,0,0,0,0,0,0,0,0,0,0,0,0,0,0,0,0,0,0,0,0,0,0,0,0,0,0,0,0,0,0,0,0,0,0,0,0,0,0,0,0,0,0,0,0,0,0,0,0,0,0,0,0,0,0,0,0,0,0,0,0,0,0,0,0,0,0,0,0,0,0,0,0,0,0,0,0,0,0,0,0,0,0,0,0,0,0,0,0,0,0,0,0,0,0,0,0,0,0,0,0,0,0,0,0,0,0,0,0,0,0,0,0,0,0,0,0,0,0,0,0,0,0,0,0,0,0,0,0,0,0,0,0,0,0,0,0,0,0,0,0,0,0,0,0,0,0,0,0,0,0,0,0,0,0,0,0,0,0,0,0,0,0,0,0,0,0,0,0,0,0,0,0,0,0,0,0,0,0,0,0,0,0,0,0,0,0,0,0,0,0,0,0,0,0,0,0,0,0,0,0,0,0,0,0,0,0,0,0,0,0,0,0,0,0,0,0,0,0,0,0,0,0,

diff --git a/pico8/index.html b/pico8/index.html
@@ -980,7 +980,7 @@ canvas{
 
 .p8_start_button{
 	cursor:pointer;
[2 lines of base64/hex data omitted]
 	-repeat center;
 	-webkit-background-size:cover; -moz-background-size:cover; -o-background-size:cover; background-size:cover;
 }
